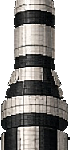
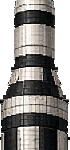
gp1-beta: integrate architect cleaned modular PNGs
Swap kit pieces from coe-playtest/gp1-beta/png-clean (Moon Giant fairing
black-bar gone, destreak/defringe across lineup + side boosters). Sync
kit.json width/join/bodyCX. KIT_VER=gp1-beta cache-bust. Beta only.

diff --git a/web/index.html b/web/index.html
@@ -413,14 +413,14 @@
   </div>
 
   <script src="pad-config.js?v=pad5v6"></script>
-  <script src="modular.js?v=audio1"></script>
+  <script src="modular.js?v=gp1-beta"></script>
   <script src="audio.js?v=gp1-beta"></script>
   <script src="liftoff.js?v=gp1-beta"></script>
   <script src="flight.js?v=gp1-beta"></script>
   <script>
     const _padAPI = window.RocketBayPadConfig || {};
     const NATIVE_W = _padAPI.NATIVE_W || 1280, NATIVE_H = _padAPI.NATIVE_H || 720;
-    const KIT_VER = "audio1";
+    const KIT_VER = "gp1-beta";
     const PAD_VER = "pad5";
     // bh-lab channel (or ?lab=1): skip pad/climb, steel stack, early BH feel-test
     const LAB = /--bh-lab/i.test(location.hostname) || location.search.includes("lab=1") || new URLSearchParams(location.search).has("lab");
